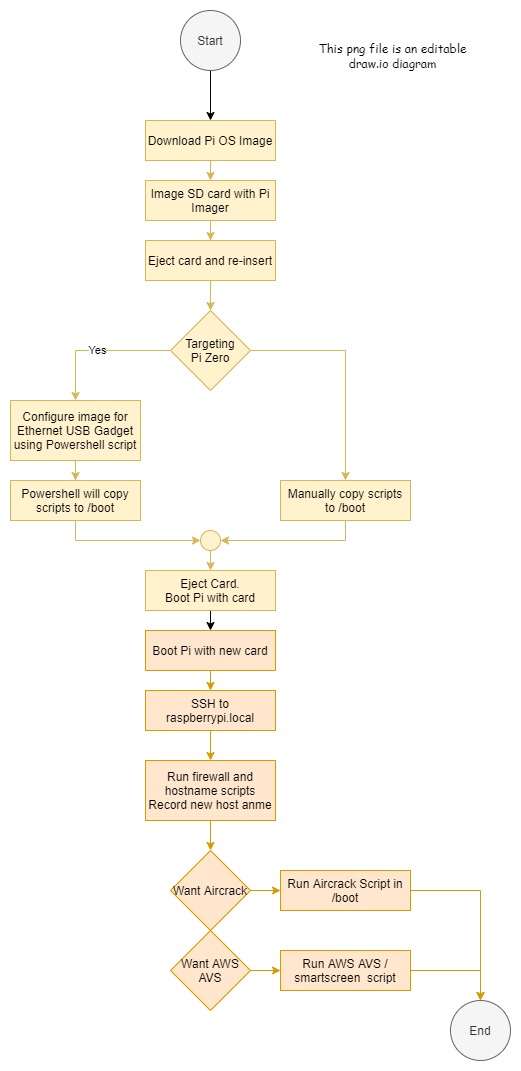
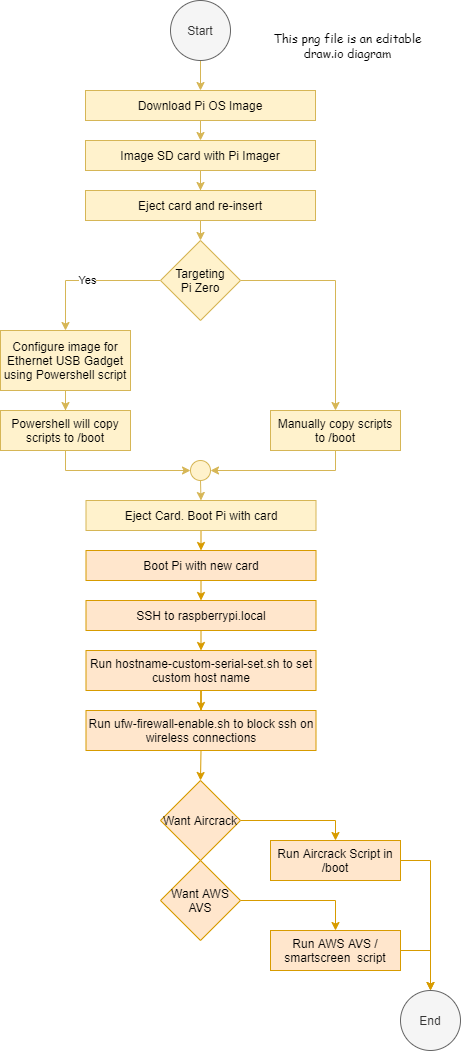
updates and clarifications

Changed region(s): [[0.0, 0.3045, 1.0, 1.0], [0.1822, 0.0, 0.9111, 0.3654], [0.1822, 0.2436, 0.2126, 0.274]]

diff --git a/README.md b/README.md
@@ -3,7 +3,8 @@ It now contains a couple realitively unrelated sets of tools
 
 | Segment | Target Machine |
 | -- | -- |
-| [Raspberry Pi Zero Ethernet Gadget - use networking over USB](./README.EtherGadget.md) | Raspberry Pi Zero |
+| [Enable SSH.  Enable Wifi Supplicant. ](./README.Provision-and-EtherGadget.md) | All |
+| [Raspberry Pi Zero Ethernet Gadget - use networking over USB](./README.Provision-and-EtherGadget.md) | Raspberry Pi Zero |
 | [AWS AVS SDK and Sample - Voice recognition using AVS - also Google](./README.AVS.md) | Raspberry Pi 3 and up, Pi Zero |
 | [Utilities including custom host names](./README-Utility-Scripts.md) | Machines with Networking |
 | [Utilities including wireless firewall restrictions](./README-Utility-Scripts.md) | Machines with wireless |

diff --git a/README-Provision-and-EtherGadget.md b/README-Provision-and-EtherGadget.md
@@ -1,3 +1,11 @@
+# Wifi and ssh
+Enalbe-Ethernet-Gadget.ps1 does more than enable just the gadget for the Raspberry Pi Zero
+1. Enables SSH
+1. Enables wifi if network name and password provided
+
+## Setup
+Run the powershell script as described below
+
 # PiZero and Ethernet over USB
 Windows Powershell scripts and automation for building and configuring Raspberry Pi (Zero W) as an Ethernet Gadget.  This means you can write a new Raspberry Pi Image and configure it for as a USB Network device and configure Wi-Fi before installing the card into a Raspberry Pi and starting it.
 
